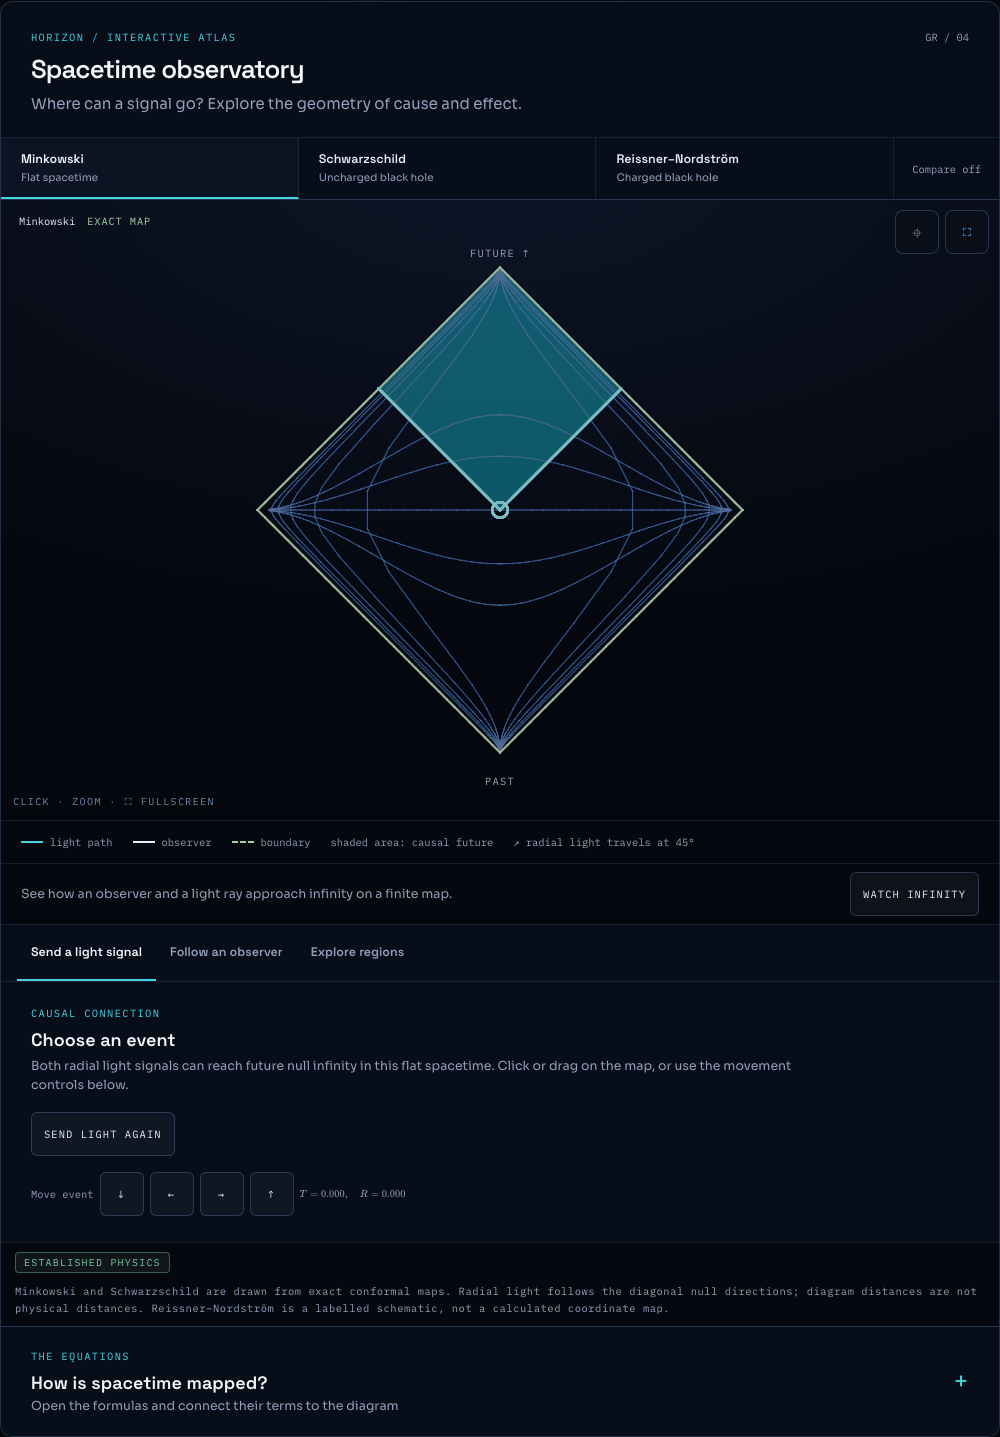
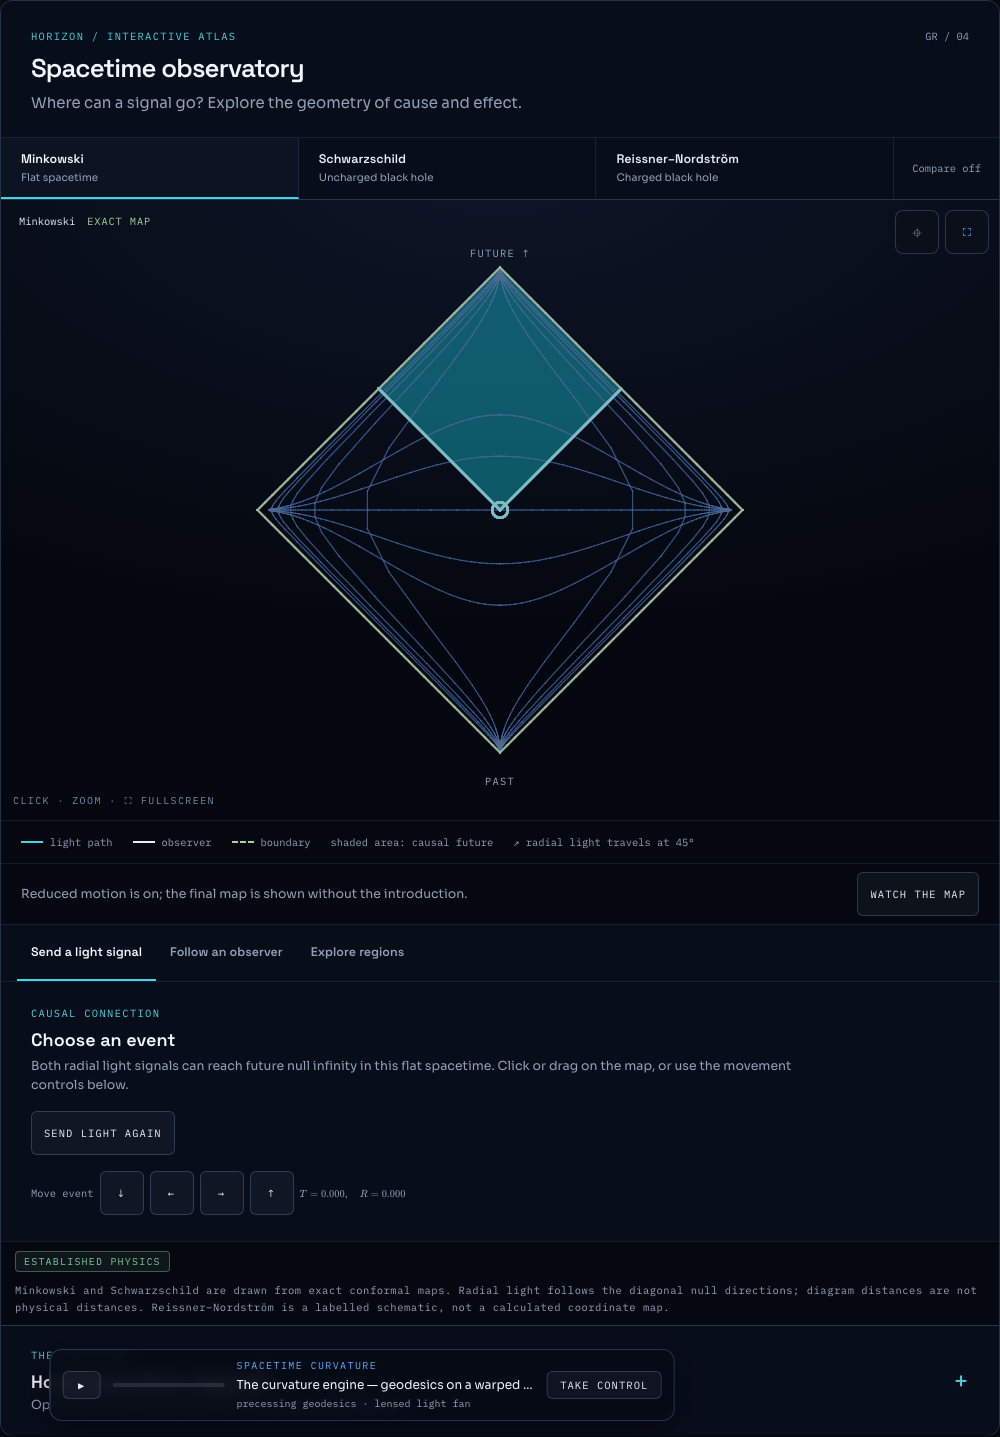
feat(gr): illustrate compactification in observatory intro

diff --git a/js/labs/penrose-atlas.jsx b/js/labs/penrose-atlas.jsx
@@ -18,6 +18,9 @@ function PenroseAtlas() {
   const [focused, setFocused] = useState(null);
   const [event, setEvent] = useState(null);
   const [intro, setIntro] = useState(false);
+  const reduced = usePRM();
+  const settings = useAtlasSettings();
+  const introDisabled = reduced || settings.motion === "reduced";
   const wrap = useRef(null), atlas = useRef(null);
   const introSeen = useRef(false);
   const [width, setWidth] = useState(0);
@@ -120,7 +123,7 @@ function PenroseAtlas() {
         <div className="pn-axis pn-axis-bottom">PAST</div>
       </div>
       <div className="pn-legend"><span><i className="pn-key-light"></i> light path</span><span><i className="pn-key-world"></i> observer</span><span><i className="pn-key-boundary"></i> boundary</span><span>shaded area: causal future</span><span>↗ radial light travels at 45°</span></div>
-      {view === "minkowski" && !compare && <div className="pn-intro-control"><span>See how an observer and a light ray approach infinity on a finite map.</span><button className="btn" type="button" onClick={() => intro ? atlas.current?.skipIntro() : atlas.current?.playIntro()}>{intro ? "Skip intro" : "Watch infinity"}</button></div>}
+      {view === "minkowski" && !compare && <div className="pn-intro-control"><span>{introDisabled ? "Reduced motion is on; the final map is shown without the introduction." : "Watch sample events change coordinates, then see an observer and light approach infinity on the finite map."}</span><button className="btn" type="button" disabled={introDisabled} onClick={() => intro ? atlas.current?.skipIntro() : atlas.current?.playIntro()}>{intro ? "Skip intro" : "Watch the map"}</button></div>}
       <div className="pn-actions" role="group" aria-label="Explore the diagram">
         <button type="button" className={"pn-action" + (mode === "signal" ? " on" : "")} aria-pressed={mode === "signal"} onClick={() => selectMode("signal")}>Send a light signal</button>
         <button type="button" className={"pn-action" + (mode === "observer" ? " on" : "")} aria-pressed={mode === "observer"} onClick={() => selectMode("observer")}>Follow an observer</button>

diff --git a/docs/render/gr-penrose-atlas.md b/docs/render/gr-penrose-atlas.md
@@ -43,7 +43,7 @@ Nothing here comes from a coordinate map, the exact extension is an infinite cha
 
 * One large selected diagram fits the available viewport. Compare displays the selected diagram alongside Minkowski (or Schwarzschild when Minkowski is selected), with independent event selection; coordinate scales are uniform within each diagram and are not a physical comparison of size.
 * A click, drag, or keyboard-accessible movement buttons places an event on an exact map. Its two future radial null rays are clipped to that spacetime's boundary. The shaded region is the intersection of the diagram with the event's future light cone, obtained by clipping the diagram polygon against the two null half-planes. RN is schematic and does not support computed light signals.
-* The Minkowski introduction follows two calculated paths toward their finite diagram boundaries: a stationary observer and a radial light ray. It can be skipped or replayed; reduced motion does not animate it. This illustrates approaching infinity, not an animation of a change of coordinates.
+* The Minkowski introduction first interpolates a finite sample of events from linearly scaled null coordinates to their exact arctan compactification; it then follows a stationary observer and a radial light ray toward their finite diagram boundaries. It can be skipped or replayed; reduced motion does not animate it. The first stage is a finite-sample illustration, not a literal animation of all infinity.
 * The Schwarzschild observer runs along the computed free-fall worldline at constant proper-time progress. Play, pause, replay and scrubbing work with the starting-radius control. The horizon milestone is computed from the same free-fall parameterization.
 * Region controls highlight a region anchor and show its description. The Formula Lens links U and V to computed outgoing and ingoing null rays; it is intended for the Schwarzschild view. The mathematical cards are available in the expandable equations section.
 * A fixed camera orientation keeps the diagram plane and its null directions readable; zoom and fullscreen remain available. Screen-space text and controls remain outside the Three.js scene. Line and surface colours use the established tokens.
